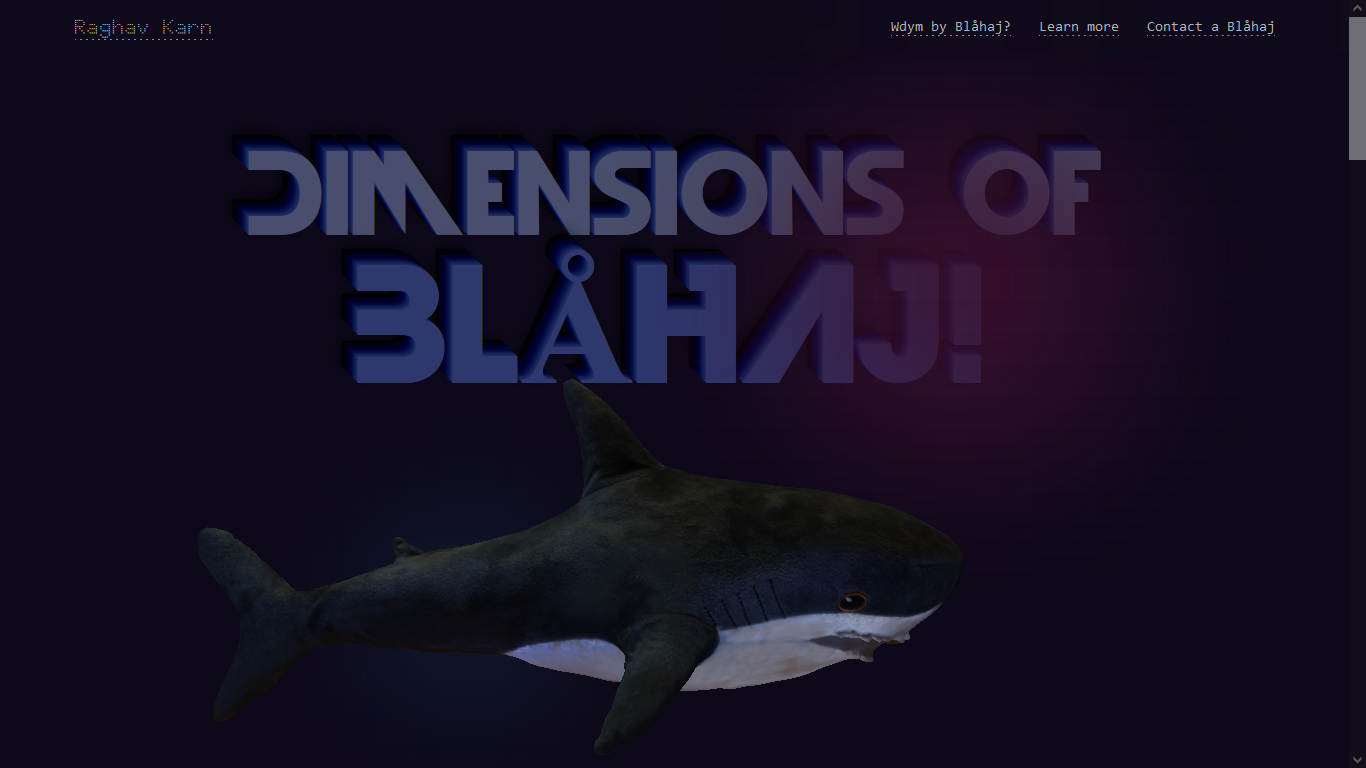
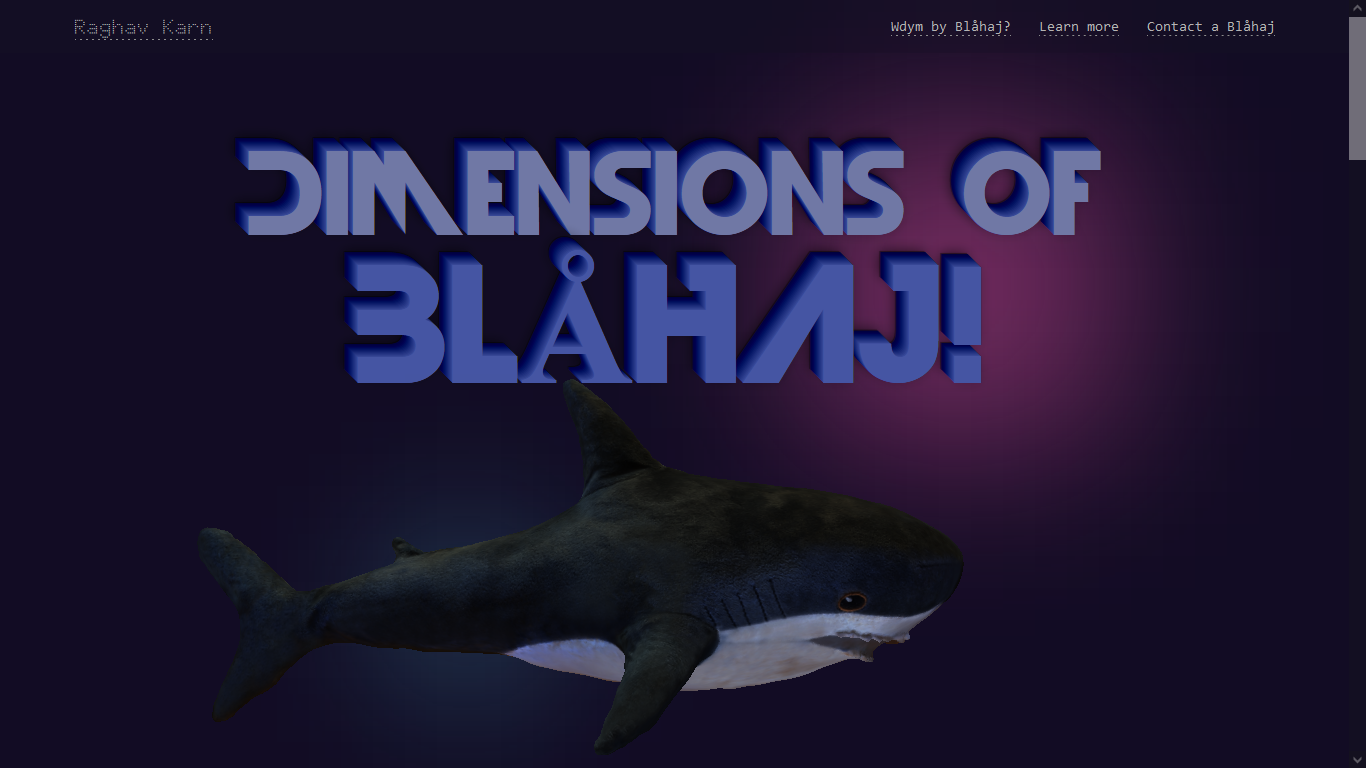
Made colors more vibrant

Changed region(s): [[0.1537, 0.125, 0.8609, 0.625]]

diff --git a/src/css/style.css b/src/css/style.css
@@ -10,7 +10,7 @@
 body {
     margin: 0;
     font-family: "Montserrat", sans-serif;
-    background-color: #0d081a;
+    background-color: #120c24;
     color: #eef8ce;
     font-family: 'Poppins', sans-serif;
     font-size: 14px;
@@ -29,7 +29,8 @@ body::before{
     left: 60%;
     top: 138px;
     filter: blur(90px);
-    background-color: #3f1231;
+    background-color: #813168;
+    z-index: -2;
 }
 body::after{
     content: "";
@@ -38,7 +39,7 @@ body::after{
     height: 123px;
     left: 30%;
     top: 550px;
-    background-color: #1a3e4e;
+    background-color: #356b83;
     filter: blur(80px);
 }
 *::-webkit-scrollbar {
@@ -116,33 +117,31 @@ li {
     transition: 0.2s;
 }
 #banner .title {
-    color: #484e6b;
+    color: #7078a5;
     font-size: 8em;
     font-family: "Devil Breeze";
     font-weight: bold;
     position: relative;
     text-align: center;
     z-index: -1;
-text-shadow: 0px 0px 0 rgb(39,50,102),
-                 -1px -1px 0 rgb(33,44,96),
-                 -2px -2px 0 rgb(26,37,89),
-                 -3px -3px 0 rgb(20,31,83),
-                 -4px -4px 0 rgb(13,24,76),
-                 -5px -5px 0 rgb(6,17,69),
-                 -6px -6px 0 rgb(0,11,63),
-                 -7px -7px 0 rgb(-7,4,56),
-                 -8px -8px 0 rgb(-14,-3,49),
-                 -9px -9px 0 rgb(-20,-9,43),
-                 -10px -10px 0 rgb(-27,-16,36),
-                 -11px -11px 0 rgb(-33,-22,30),
-                 -12px -12px 0 rgb(-40,-29,23),
-                 -13px -13px 0 rgb(-47,-36,16),
-                 -14px -14px 0 rgb(-53,-42,10),
-                 -15px -15px 0 rgb(-60,-49,3),
-                 -16px -16px  0 rgb(-67,-56,0),
-                 -17px -17px 16px rgba(0,0,0,0.81),
-                 -17px -17px 1px rgba(0,0,0,0.5),
-                 0px 0px 16px rgba(0,0,0,.2);}
+    text-shadow: 0px 0px 0 rgb(62,78,156),
+    -1px -1px 0 rgb(55,71,149),
+    -2px -2px 0 rgb(47,63,141),
+    -3px -3px 0 rgb(40,56,134),
+    -4px -4px 0 rgb(33,49,127),
+    -5px -5px 0 rgb(26,42,120),
+    -6px -6px 0 rgb(18,34,112),
+    -7px -7px 0 rgb(11,27,105),
+    -8px -8px 0 rgb(4,20,98),
+    -9px -9px 0 rgb(-3,13,91),
+    -10px -10px 0 rgb(-11,5,83),
+    -11px -11px 0 rgb(-18,-2,76),
+    -12px -12px 0 rgb(-25,-9,69),
+    -13px -13px  0 rgb(-32,-16,62),
+    -14px -14px 13px rgba(0,0,0,0.62),
+    -14px -14px 1px rgba(0,0,0,0.5),
+    0px 0px 13px rgba(0,0,0,.2);
+}
 .life {
     color: #8d8d8d;
     transition: 0.2s;
@@ -156,7 +155,7 @@ text-shadow: 0px 0px 0 rgb(39,50,102),
     position: absolute;
     top: 20%;
     inset: 0.66em 0 0 0;
-    color: #2e386d;
+    color: #4555a3;
     font-size: 1.4em;
 }
 .section .decorate {
@@ -216,7 +215,7 @@ text-shadow: 0px 0px 0 rgb(39,50,102),
     left: 10%;
     top: 138px;
     filter: blur(90px);
-    background-color: #123f26;
+    background-color: #13753f;
 }
 #description::after{
     content: "";
@@ -224,8 +223,8 @@ text-shadow: 0px 0px 0 rgb(39,50,102),
     width: 100px;
     height: 100px;
     left: 80%;
-    top: 550px;
-    background-color: #4e3c1a;
+    top: 50px;
+    background-color: #684c17;
     filter: blur(80px);
 }
 
@@ -269,7 +268,7 @@ table::before{
     left: 10%;
     top: 338px;
     filter: blur(90px);
-    background-color: #6e2629;
+    background-color: #972e31;
 }
 table::after{
     content: "";
@@ -278,7 +277,7 @@ table::after{
     height: 123px;
     left: 80%;
     top: 550px;
-    background-color: #1a4e3d;
+    background-color: #30a37d;
     filter: blur(80px);
 }
 
